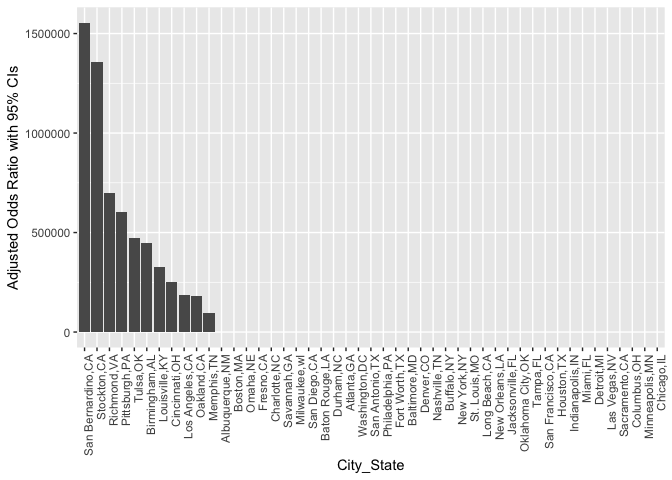
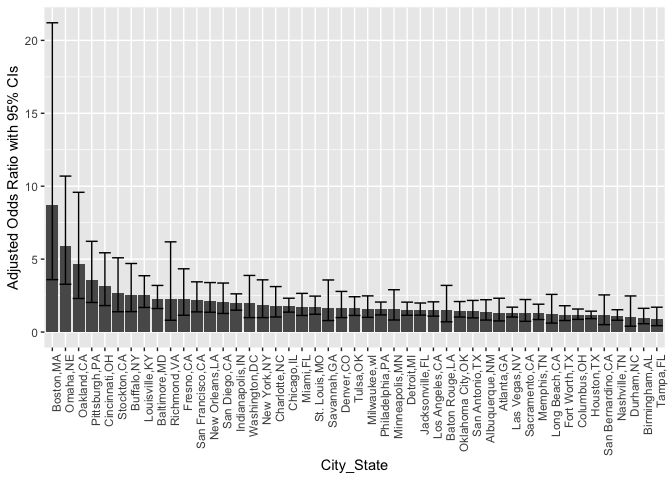
finish all code, change the dataset for city_state

diff --git a/homework6.md b/homework6.md
@@ -73,25 +73,26 @@ glmfunction = function(x){
 all_city <- nest(homicide, -city_state) %>% 
   mutate(adjust_or = map(data, glmfunction))%>% 
   select(city_state, adjust_or) %>% 
-  unnest  
+  unnest %>% 
+  filter(term=='victim_racewhite')
  
 as.tibble(all_city)
 ```
 
-    ## # A tibble: 211 x 7
-    ##    city_state     term              log_OR    OR p.value OR_lower OR_upper
-    ##    <chr>          <chr>              <dbl> <dbl>   <dbl>    <dbl>    <dbl>
-    ##  1 Albuquerque,NM (Intercept)       0.933  2.54  1.33e-2    1.21     5.32 
-    ##  2 Albuquerque,NM victim_age       -0.0230 0.977 1.08e-3    0.964    0.991
-    ##  3 Albuquerque,NM victim_racewhite  0.299  1.35  2.38e-1    0.821    2.22 
-    ##  4 Albuquerque,NM victim_sexMale    0.455  1.58  1.15e-1    0.895    2.77 
-    ##  5 Albuquerque,NM victim_sexUnkno…  2.10   8.19  1.86e-3    2.18    30.8  
-    ##  6 Atlanta,GA     (Intercept)       0.868  2.38  2.83e-4    1.49     3.81 
-    ##  7 Atlanta,GA     victim_age       -0.0118 0.988 9.81e-3    0.979    0.997
-    ##  8 Atlanta,GA     victim_racewhite  0.284  1.33  3.17e-1    0.761    2.32 
-    ##  9 Atlanta,GA     victim_sexMale   -0.0101 0.990 9.58e-1    0.679    1.44 
-    ## 10 Baltimore,MD   (Intercept)       0.366  1.44  2.92e-2    1.04     2.01 
-    ## # ... with 201 more rows
+    ## # A tibble: 47 x 7
+    ##    city_state     term            log_OR    OR   p.value OR_lower OR_upper
+    ##    <chr>          <chr>            <dbl> <dbl>     <dbl>    <dbl>    <dbl>
+    ##  1 Albuquerque,NM victim_racewh…  0.299  1.35    2.38e-1    0.821     2.22
+    ##  2 Atlanta,GA     victim_racewh…  0.284  1.33    3.17e-1    0.761     2.32
+    ##  3 Baltimore,MD   victim_racewh…  0.820  2.27    2.68e-6    1.61      3.20
+    ##  4 Baton Rouge,LA victim_racewh…  0.404  1.50    2.96e-1    0.702     3.20
+    ##  5 Birmingham,AL  victim_racewh… -0.0385 0.962   8.86e-1    0.569     1.63
+    ##  6 Boston,MA      victim_racewh…  2.17   8.73    1.72e-6    3.59     21.2 
+    ##  7 Buffalo,NY     victim_racewh…  0.942  2.56    2.31e-3    1.40      4.70
+    ##  8 Charlotte,NC   victim_racewh…  0.584  1.79    3.83e-2    1.03      3.12
+    ##  9 Chicago,IL     victim_racewh…  0.576  1.78    2.07e-5    1.36      2.32
+    ## 10 Cincinnati,OH  victim_racewh…  1.14   3.14    4.28e-5    1.82      5.43
+    ## # ... with 37 more rows
 
 #### Create a plot that shows the estimated ORs and CIs for each city
 
@@ -99,7 +100,7 @@ as.tibble(all_city)
 all_city %>% 
 ggplot(aes(x = reorder(city_state, -OR), y=OR))+
   geom_bar(stat = 'identity', alpha = 1)+
-  #geom_errorbar(aes(x= city_state, ymin=OR_lower, ymax=OR_upper))+
+  geom_errorbar(mapping=aes(x= city_state, ymin=OR_lower, ymax=OR_upper))+
   theme(legend.position = "bottom", axis.text.x = element_text(angle = 90, hjust = 1), legend.key.width = unit(0.15,'cm')) +
   labs(
     x = "City_State",
